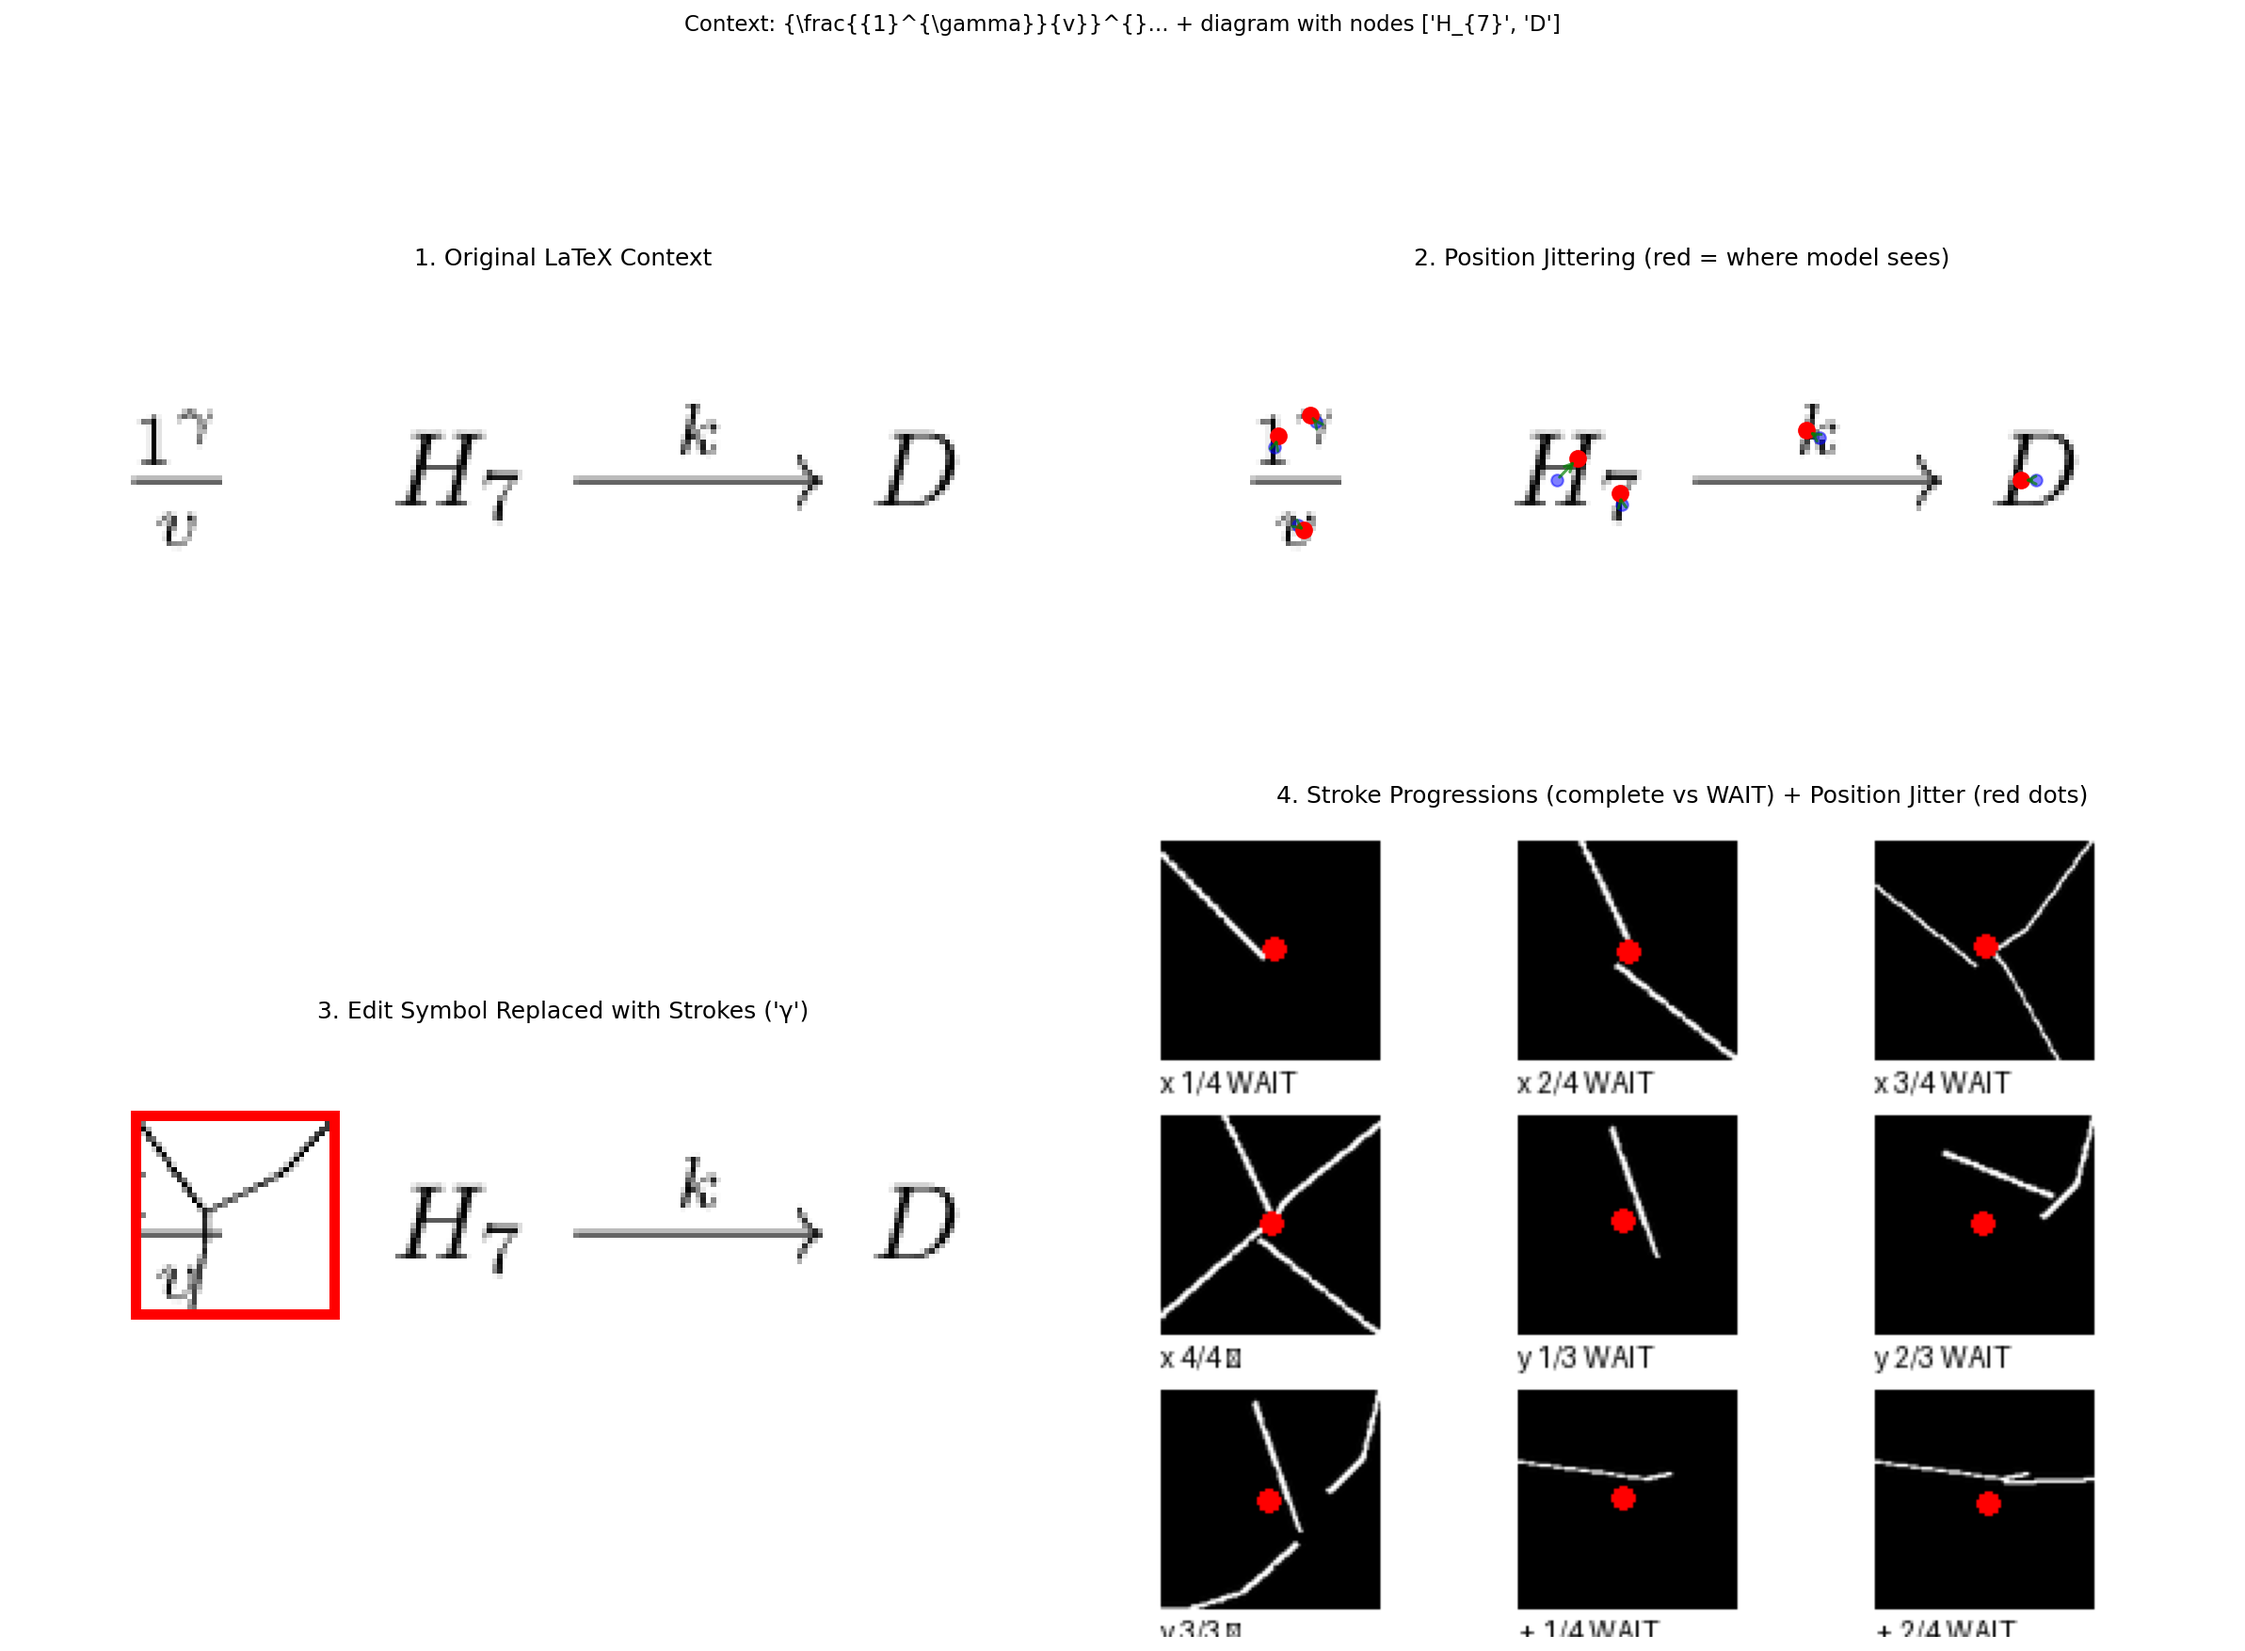
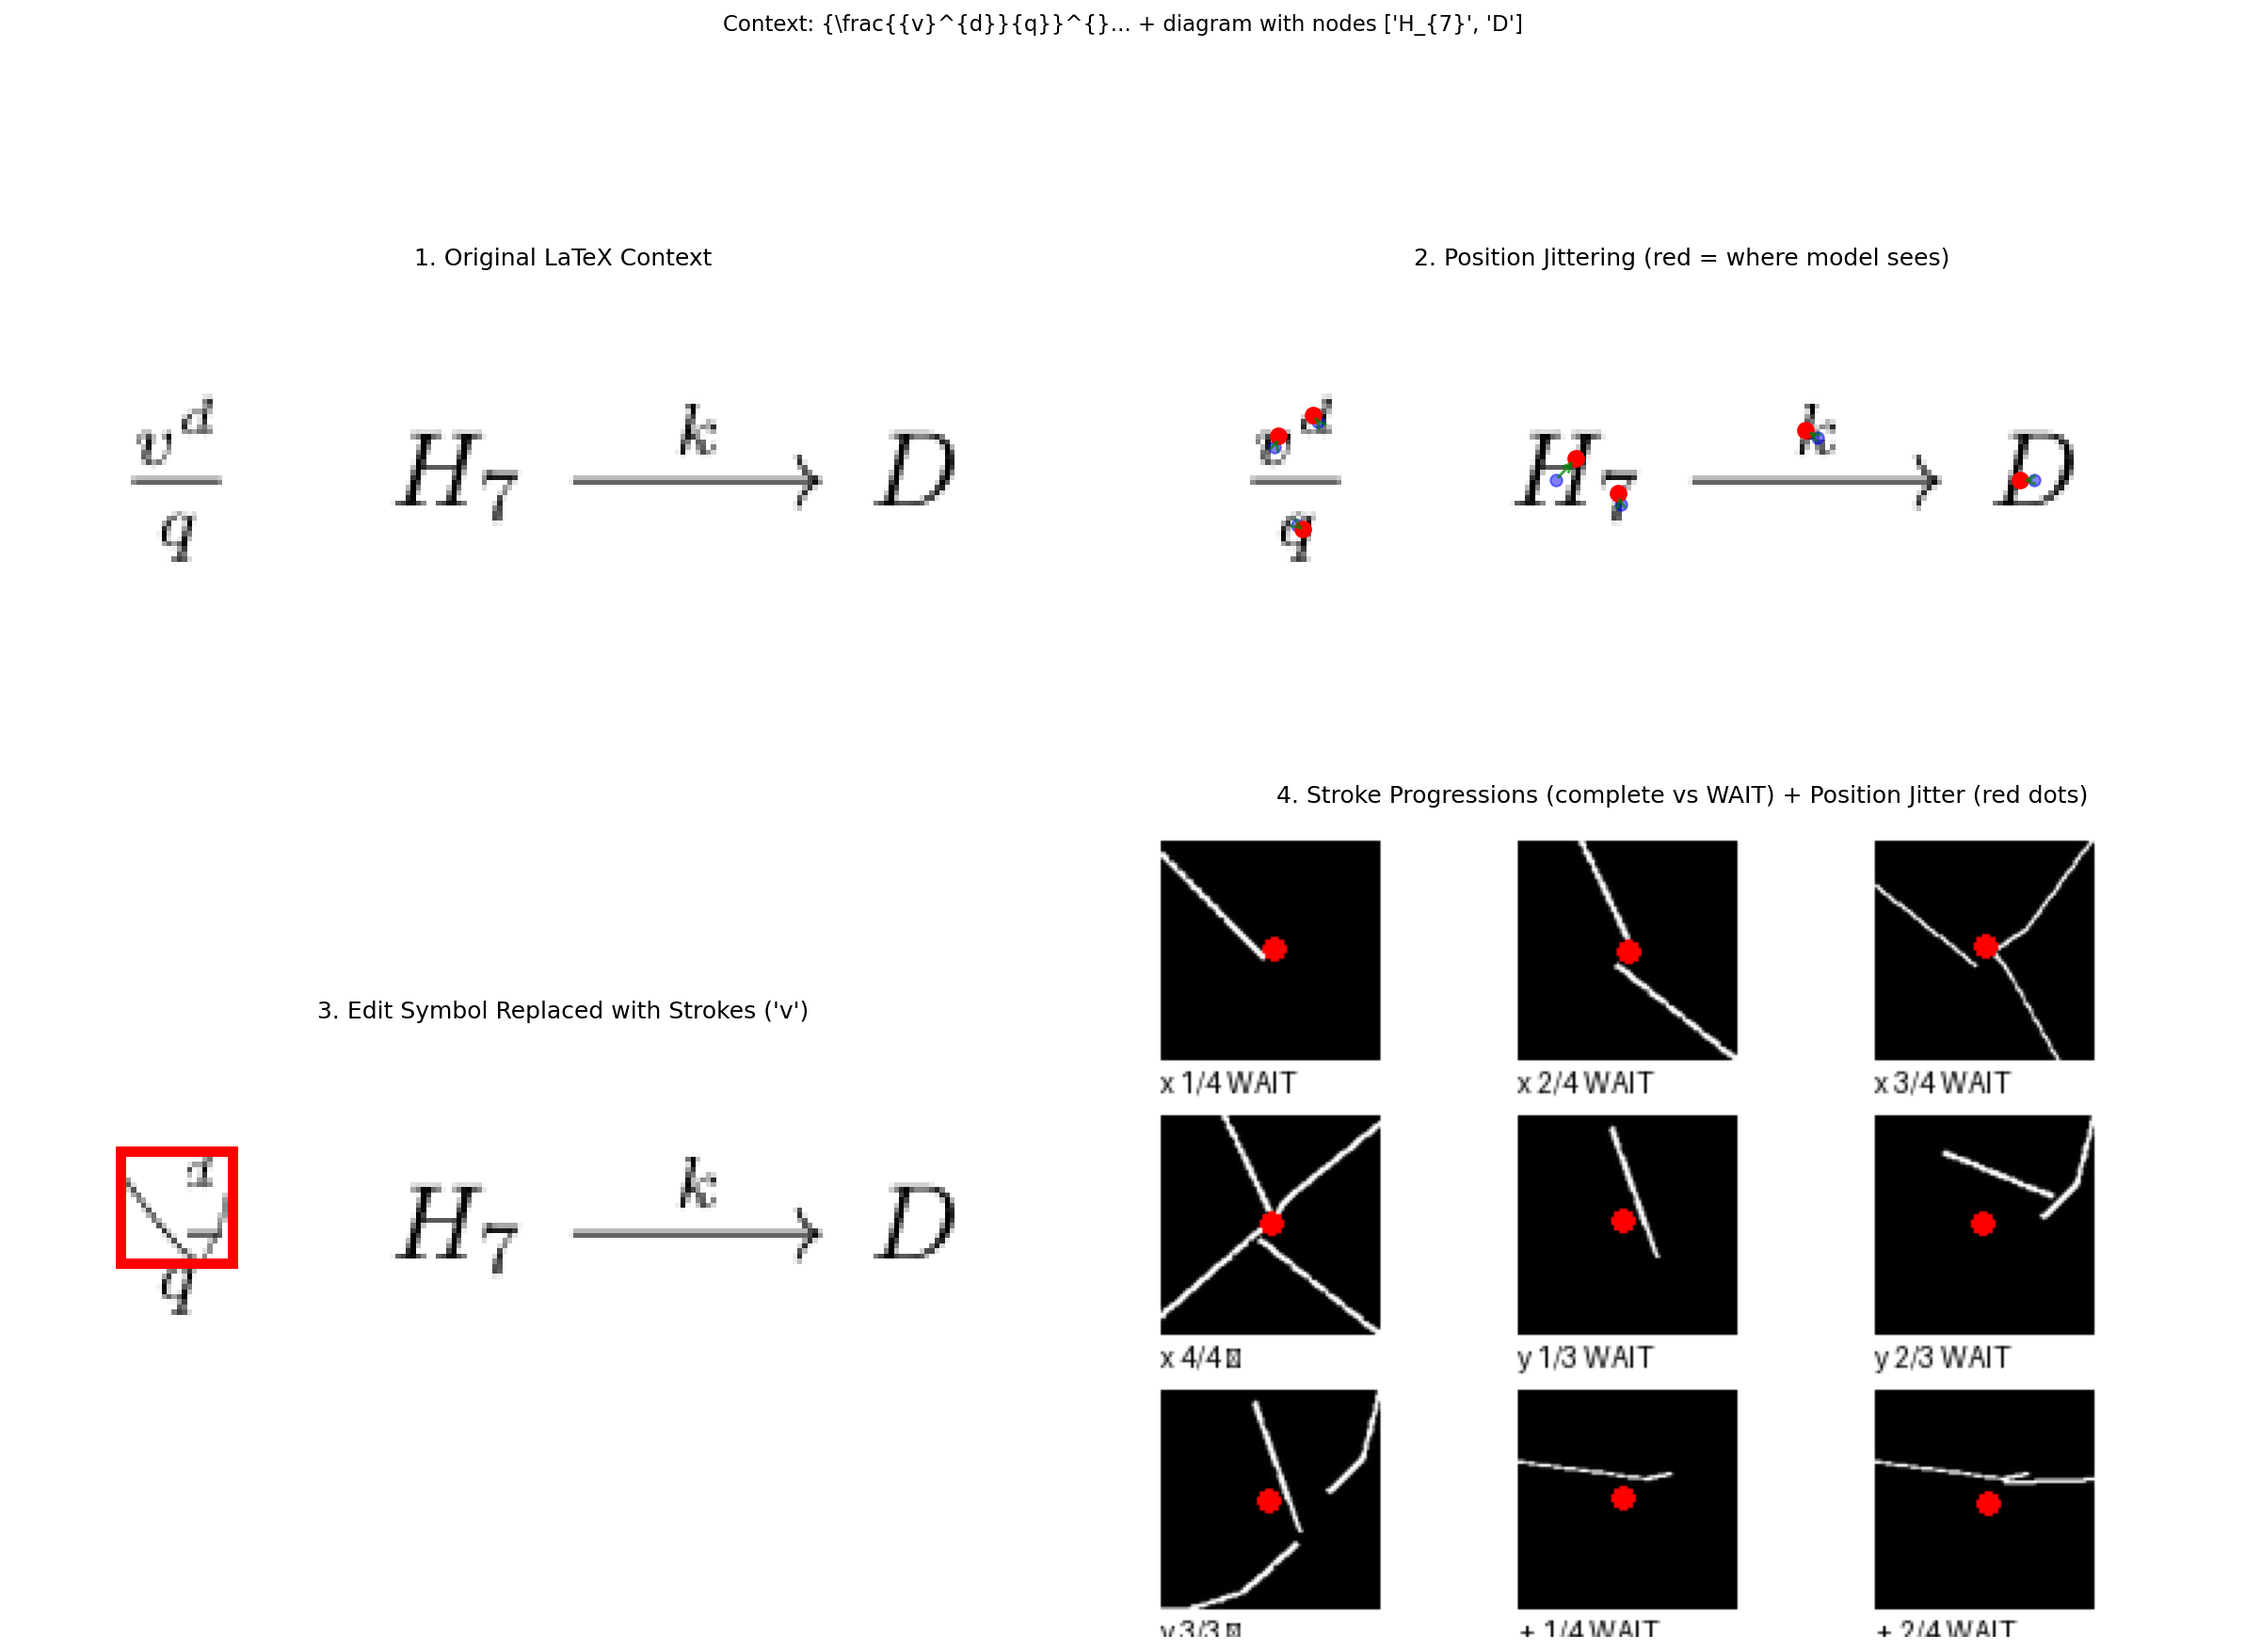
fix: stroke replacement box now sized to match symbol bbox, not entire block

diff --git a/context_tracker/data/demos/visualize_context_demo.py b/context_tracker/data/demos/visualize_context_demo.py
@@ -340,45 +340,64 @@ def visualize_context_with_strokes(
     target_sym = None
     replaced_char = None
     
-    # First try: find the exact edit symbol in the rendered LaTeX
+    # Filter and sort symbols: prefer SMALL single-character symbols
+    # (superscripts/subscripts are small, full expressions are large)
+    def symbol_size(sym):
+        bbox = sym['bbox']
+        return (bbox[2] - bbox[0]) * (bbox[3] - bbox[1])  # area
+    
+    # Get single-character symbols that are in stroke corpus, sorted by size (smallest first)
+    single_char_symbols = []
     for sym in symbols:
         sym_text = sym['text'].strip()
-        if sym_text and sym_text in available_symbols:
-            if sym_text == edit_symbol or (len(edit_symbol) == 1 and edit_symbol in sym_text):
-                target_sym = sym
-                replaced_char = sym_text[0] if len(sym_text) > 0 else edit_symbol
-                break
+        # Only consider single characters (not groups like "1γ")
+        if len(sym_text) == 1 and sym_text in available_symbols:
+            single_char_symbols.append((sym, sym_text))
     
-    # Second try: find any symbol that's in our stroke corpus
-    if not target_sym:
-        for sym in symbols:
-            sym_text = sym['text'].strip()
-            if sym_text and sym_text[0] in available_symbols:
-                target_sym = sym
-                replaced_char = sym_text[0]
-                break
+    # Sort by size (prefer smaller = superscripts/subscripts)
+    single_char_symbols.sort(key=lambda x: symbol_size(x[0]))
+    
+    # First try: find a small symbol matching the edit target
+    for sym, char in single_char_symbols:
+        if char == edit_symbol:
+            target_sym = sym
+            replaced_char = char
+            break
+    
+    # Second try: find any small single-character symbol in stroke corpus
+    # Prefer the SMALLEST one (likely a superscript/subscript)
+    if not target_sym and single_char_symbols:
+        target_sym, replaced_char = single_char_symbols[0]  # Smallest first
     
     if target_sym and replaced_char:
         bbox = target_sym['bbox']
+        x0, y0, x1, y1 = [int(b) for b in bbox]
+        bbox_w = x1 - x0
+        bbox_h = y1 - y0
         
-        # Render stroke for the replaced symbol
-        stroke_w = int(bbox[2] - bbox[0]) + 20
-        stroke_h = int(bbox[3] - bbox[1]) + 20
-        stroke_size = max(stroke_w, stroke_h, 40)
+        # Render stroke sized to match the symbol bbox (with small padding)
+        # For small symbols (superscripts), keep proportional size
+        padding = max(4, min(bbox_w, bbox_h) // 2)
+        stroke_w = bbox_w + padding * 2
+        stroke_h = bbox_h + padding * 2
+        stroke_size = max(stroke_w, stroke_h, 20)  # Minimum 20px for visibility
         
         stroke_arr = render_strokes_to_array(loader, replaced_char, size=(stroke_size, stroke_size))
         stroke_img = Image.fromarray(stroke_arr, mode='L')
         
-        # White out original symbol area
-        x0, y0, x1, y1 = [int(b) for b in bbox]
-        draw.rectangle([x0-5, y0-5, x1+5, y1+5], fill='white')
+        # White out just the original symbol area (tight)
+        draw.rectangle([x0-2, y0-2, x1+2, y1+2], fill='white')
         
-        # Paste stroke (with small position jitter)
-        max_jitter = min(stroke_size // 8, 5)  # Small jitter, proportional to size
+        # Paste stroke centered on the symbol bbox
+        paste_x = x0 - padding
+        paste_y = y0 - padding
+        
+        # Small jitter within the bbox
+        max_jitter = max(1, padding // 2)
         jitter_x = random.randint(-max_jitter, max_jitter)
         jitter_y = random.randint(-max_jitter, max_jitter)
-        paste_x = int(bbox[0] - 10 + jitter_x)
-        paste_y = int(bbox[1] - 10 + jitter_y)
+        paste_x += jitter_x
+        paste_y += jitter_y
         
         # Convert stroke to RGBA for pasting
         stroke_rgba = Image.new('RGBA', stroke_img.size, (255, 255, 255, 0))
